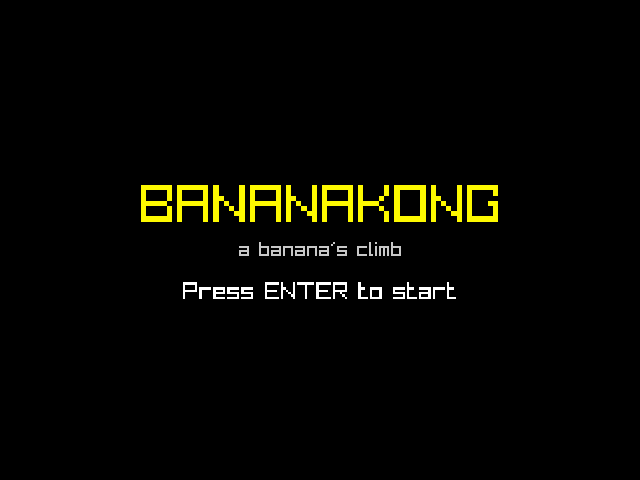
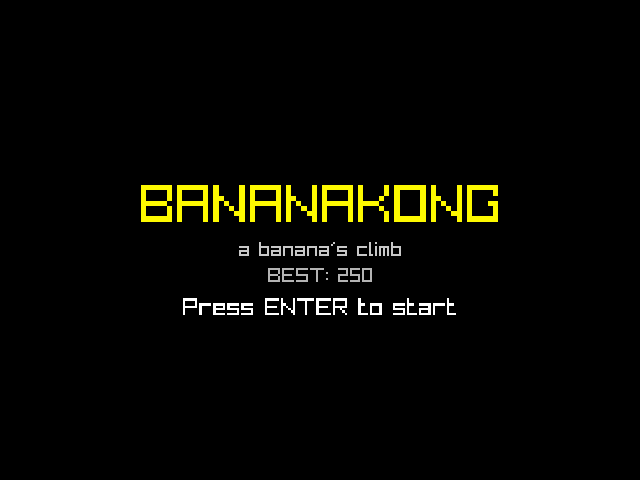
docs: document Kenney assets, update changelog and screenshots

Changed region(s): [[0.2812, 0.5312, 0.7188, 0.6562]]

diff --git a/README.md b/README.md
@@ -16,8 +16,8 @@ coming, so every pause means another one is rolling your way. Get hit and you
 lose a life; run out of three lives and it is game over. Score points by
 surviving barrels and by winning the climb.
 
-The whole game is rendered with raylib primitives (shapes, not sprites), so it
-has no external assets and builds in seconds.
+Rendering and sound use free pixel-art sprites and effects from the
+[Kenney "New Platformer" pack](https://kenney.nl/assets) (CC0 license).
 
 ## Features
 
@@ -28,6 +28,9 @@ has no external assets and builds in seconds.
 - Title, game-over, and win screens with one-key restart.
 - Deterministic pure-logic modules (`physics`, `level`) with unit tests.
 - Runs at 60 FPS with a fixed-size 640x480 window.
+- Pause with `P`, score popups, a score-based difficulty ramp, and a
+  persistent best score.
+- Sprite rendering and sound effects from the Kenney New Platformer pack.
 
 ## Screenshots
 
@@ -77,7 +80,8 @@ or a manual library lookup, so it works across all three platforms above.
 ctest --test-dir build --output-on-failure
 ```
 
-Unit tests cover the physics helpers and level tile queries (38 checks).
+Unit tests cover the physics helpers, level tile queries, difficulty ramp,
+score popups, and high-score persistence (68 checks).
 
 ## Controls
 
@@ -86,6 +90,7 @@ Unit tests cover the physics helpers and level tile queries (38 checks).
 | Move    | Arrow keys / WASD         |
 | Jump    | Space                     |
 | Climb   | Up / Down on a ladder     |
+| Pause   | P                         |
 | Start / restart | Enter           |
 
 ## Project layout
@@ -97,7 +102,8 @@ src/
 ├── core/               game state, rendering, physics helpers
 ├── entities/           player and barrel logic + drawing
 └── world/              level grid and collision queries
-tests/                  unit tests (physics, level)
+assets/                 Kenney sprites and sound effects (CC0)
+tests/                  unit tests (physics, level, difficulty, popup, highscore)
 ```
 
 ## Docs
@@ -105,6 +111,13 @@ tests/                  unit tests (physics, level)
 - [CONSTRAINTS.md](CONSTRAINTS.md) - coding rules
 - [CONTRIBUTING.md](CONTRIBUTING.md) - git workflow
 - [CHANGELOG.md](CHANGELOG.md) - release history
+
+## Assets
+
+Sprites and sound effects come from the Kenney "New Platformer" pack
+([CC0](https://creativecommons.org/publicdomain/zero/1.0/)), courtesy of
+[Kenney](https://kenney.nl). The license file is bundled at
+[`assets/LICENSE-Kenney.txt`](assets/LICENSE-Kenney.txt).
 
 ## License
 

diff --git a/PLAN.md b/PLAN.md
@@ -5,6 +5,14 @@ Work is on branch `feat/gameplay-overhaul`, one commit per feature. No merge to
 then the implementations that make them pass. Intermediate commits may not be
 green; build + tests must be green before merge.
 
+## 8. Kenney sprite + sound integration (done)
+- [x] Copy CC0 Kenney "New Platformer" sprites and sounds into `assets/`
+- [x] `src/core/assets.c/.h` registry: load/unload textures + sounds, `assets_play`
+- [x] Sprite rendering: `level_draw` (background/grass/ladder/flag), `player_draw`
+      (idle/walk/jump/climb/hit + facing flip), `barrel_draw` (bomb sprite)
+- [x] Sound wiring: jump, throw, coin, hurt, select, gem; audio init in `main.c`
+- [x] README Assets section + Kenney credit, CHANGELOG entries, screenshots regenerated
+
 ## 1. Tests first (scaffolding + new suites)
 - [ ] `CMakeLists.txt`: add `difficulty.c`, `popup.c`, `highscore.c`, `level.c` to the
       test target (headers/sources listed as they are created)

diff --git a/CHANGELOG.md b/CHANGELOG.md
@@ -15,6 +15,11 @@ project adheres to [Semantic Versioning](https://semver.org/).
 - Floating score popups when barrels leave the screen or the flag is reached.
 - Best score persisted to `bananakong_highscore.txt`, shown on title/game-over.
 - `difficulty`, `highscore`, `popup`, and `scoring` modules with unit tests.
+- Kenney "New Platformer" sprites for the player, tiles, background, and
+  barrels (CC0), loaded via a new `assets` module.
+- Sound effects for jumping, barrel throws, scoring, hits, menu, and winning,
+  with audio device setup in `main.c`.
+- Animated player (walk/climb frames, facing direction) and waving goal flag.
 
 ## [0.1.0] - 2026-08-18
 
